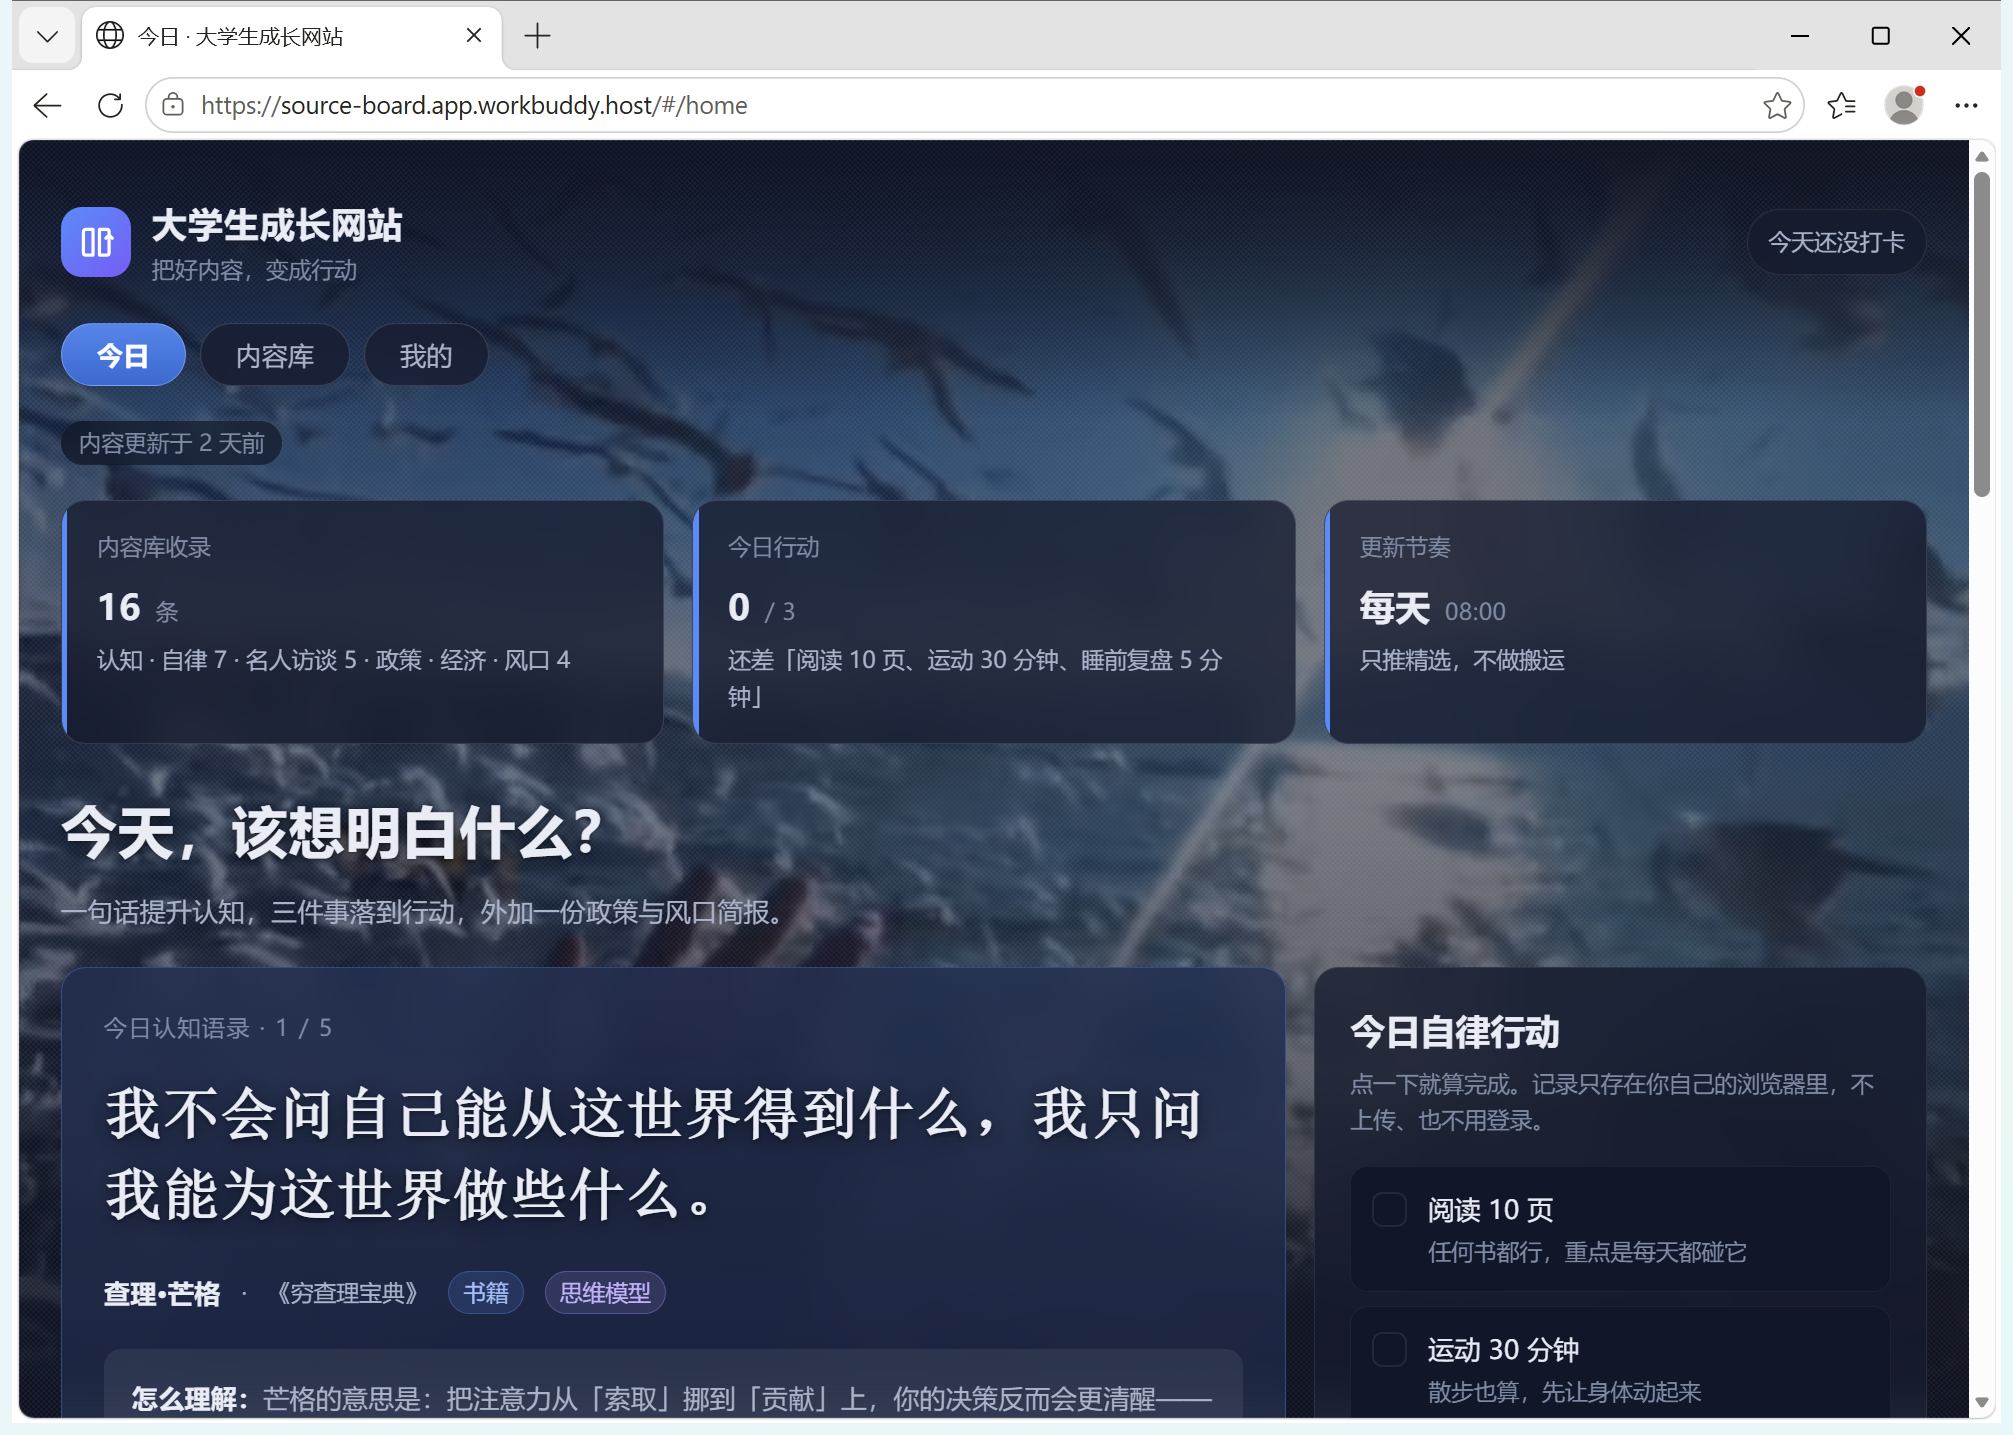
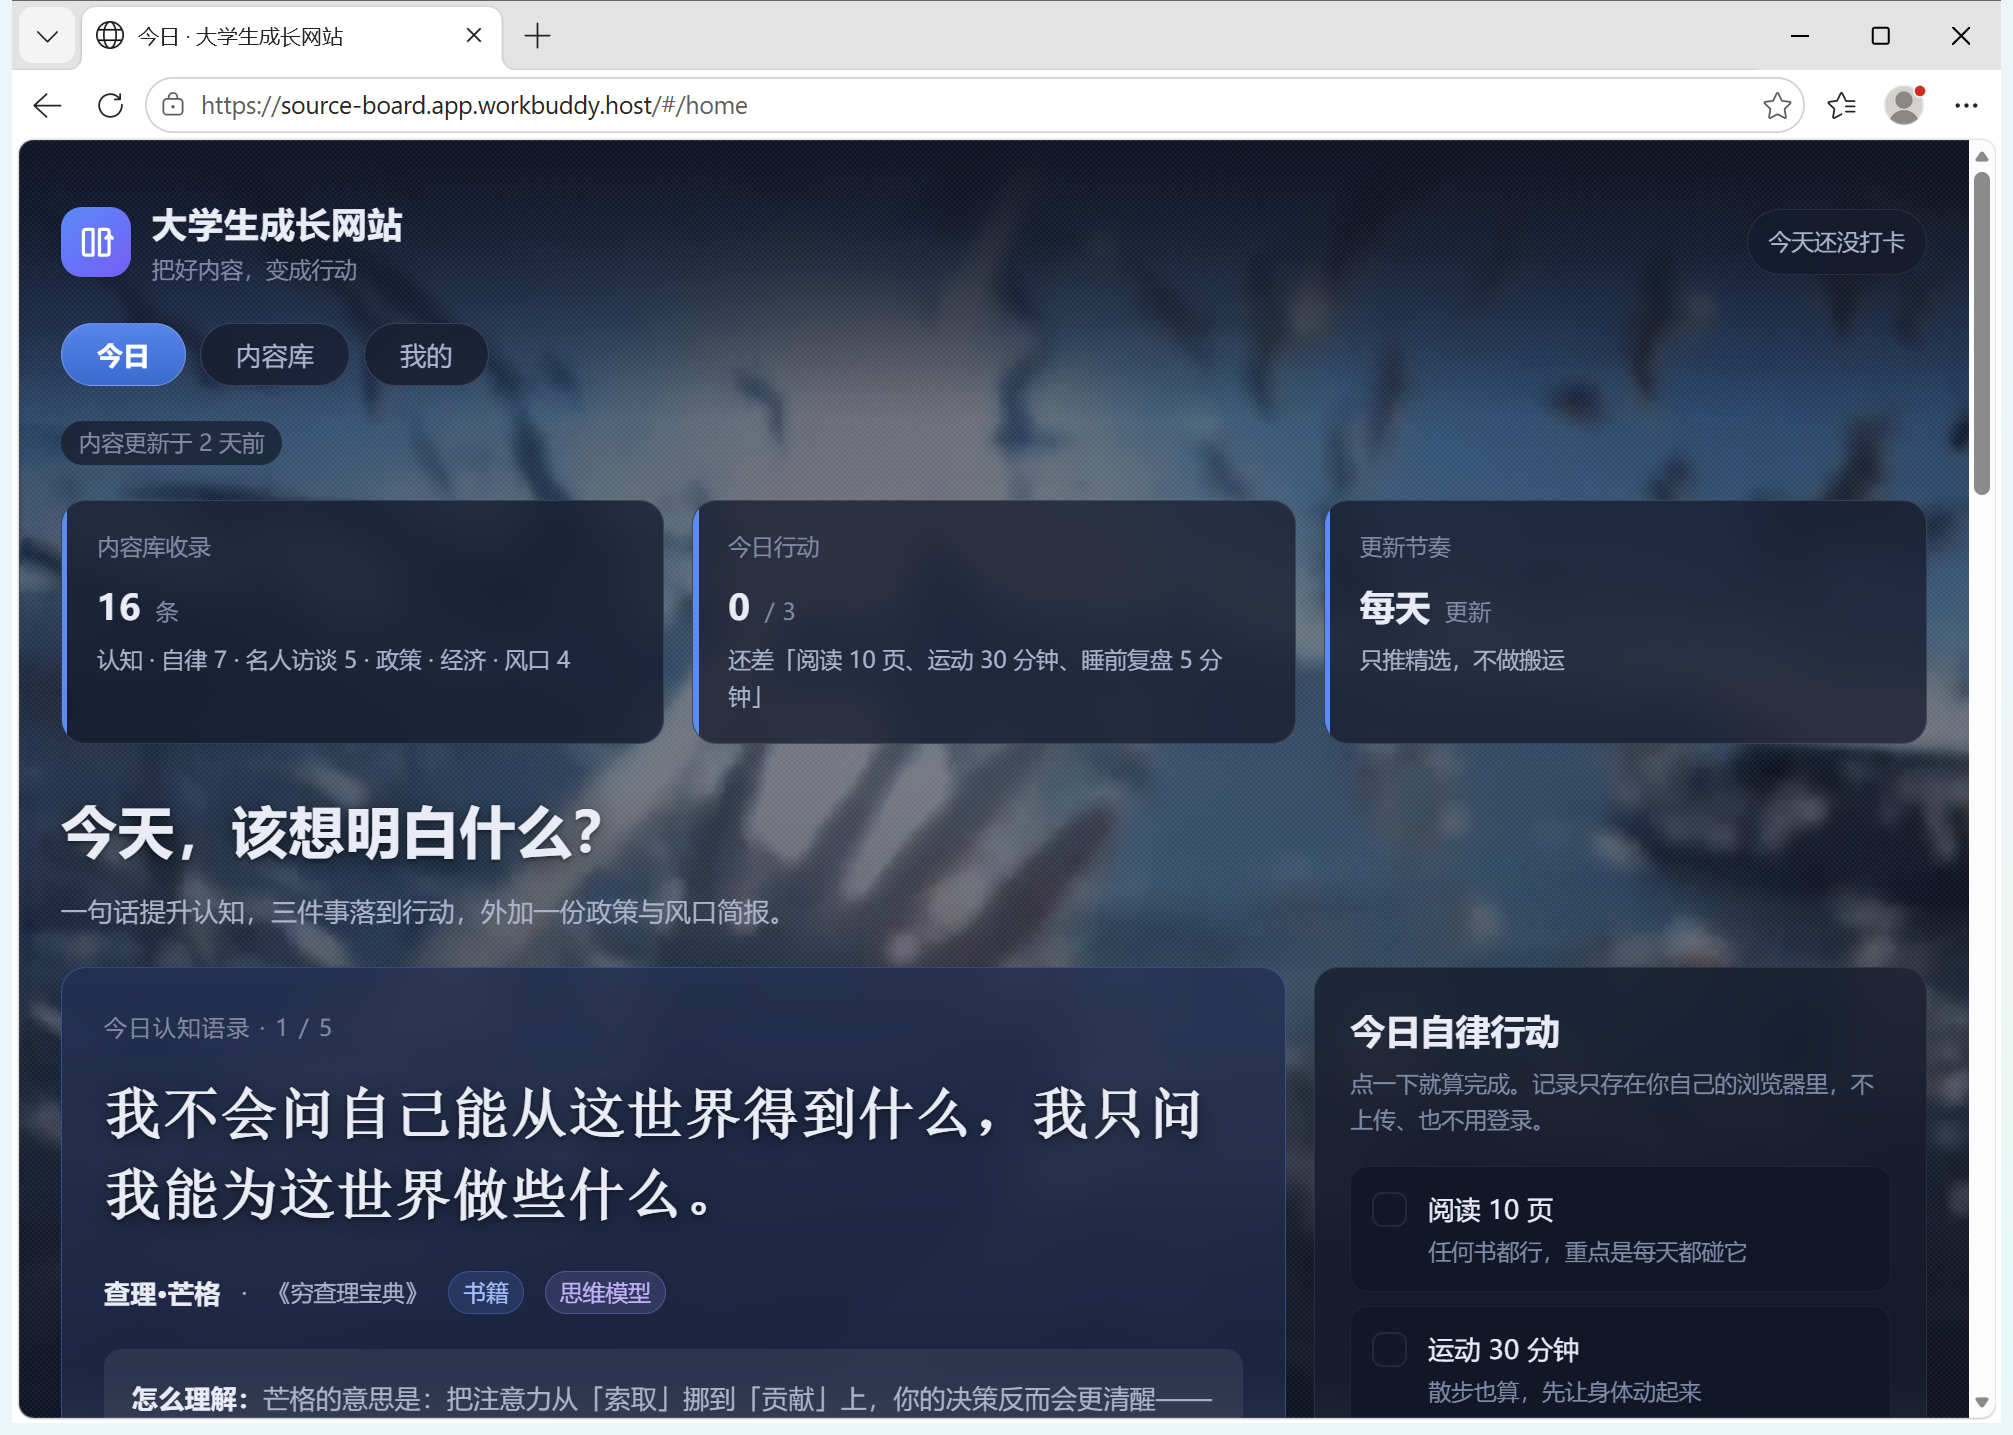
Day 28 补｜发布上线并线上复检通过：热点日期已是当天、统计卡不再写死钟点
改了什么：docs/day28-acceptance.md 与 docs/CHANGELOG.md 里的「线上还是旧代码」全部改成「已发布并线上复检通过」，第七节补上「本节记录的是发布前的核验」时间说明。

加了什么：docs/screenshots/day28/day28-1-线上首页带地址栏.png 换成发布后重拍的版本（统计卡已是「每天 更新」）。

diff --git a/docs/CHANGELOG.md b/docs/CHANGELOG.md
@@ -178,8 +178,13 @@
 
 #### 7.5 结论
 
-两处修改**都只在本地工作区**，**线上还是旧代码** ——
-截至本记录，`pre-release-check` 的 C2 是「9/12 一致」，**必须做一次发布才算闭环**。
+**当晚 23:46 完成发布**（同一个应用，链接不变）—— 线上复检通过：
+
+| 线上复检项 | 结果 |
+| --- | --- |
+| 首页「今日热点」 | **榜单日期 2026-10-15 · 最后更新 2026-10-15 22:34** ✅（原来 10-03） |
+| 统计卡第三张 | **「每天 更新」** ✅（原来「每天 08:00」） |
+| `pre-release-check` | **12/12 全绿**（C2 线上与本地 12/12 文件 md5 一致）✅ |
 
 ---
 
